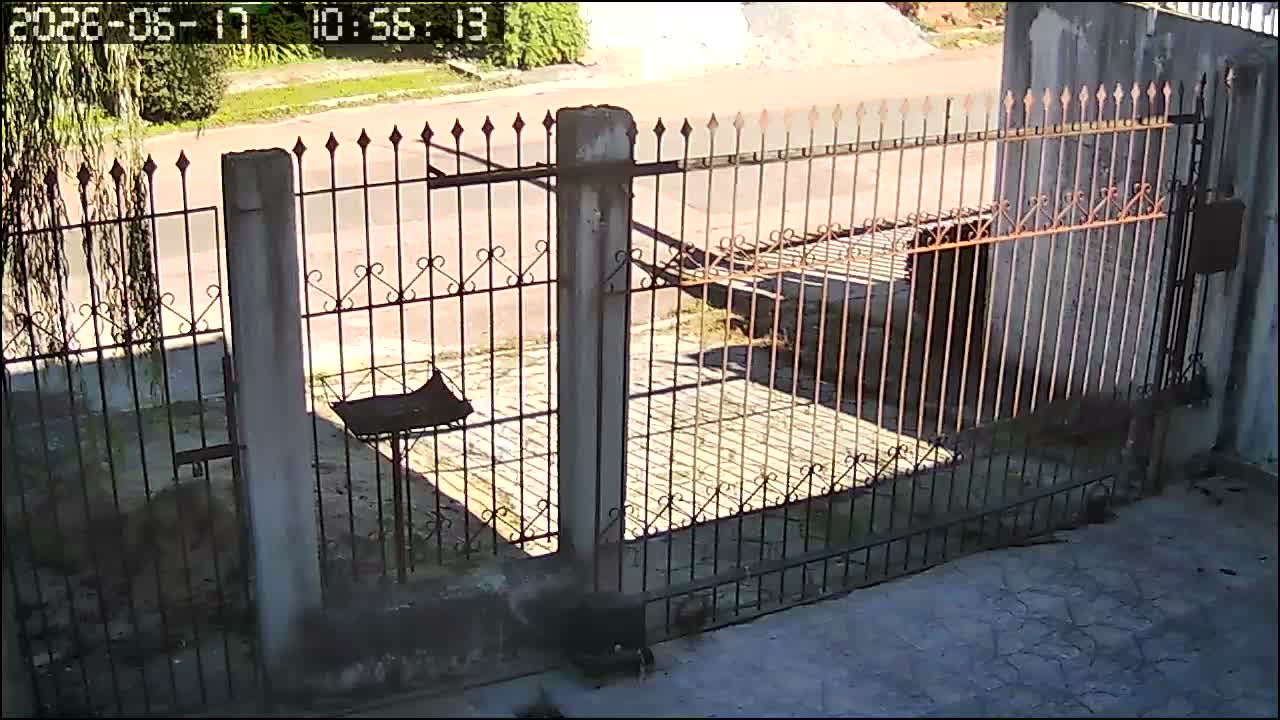
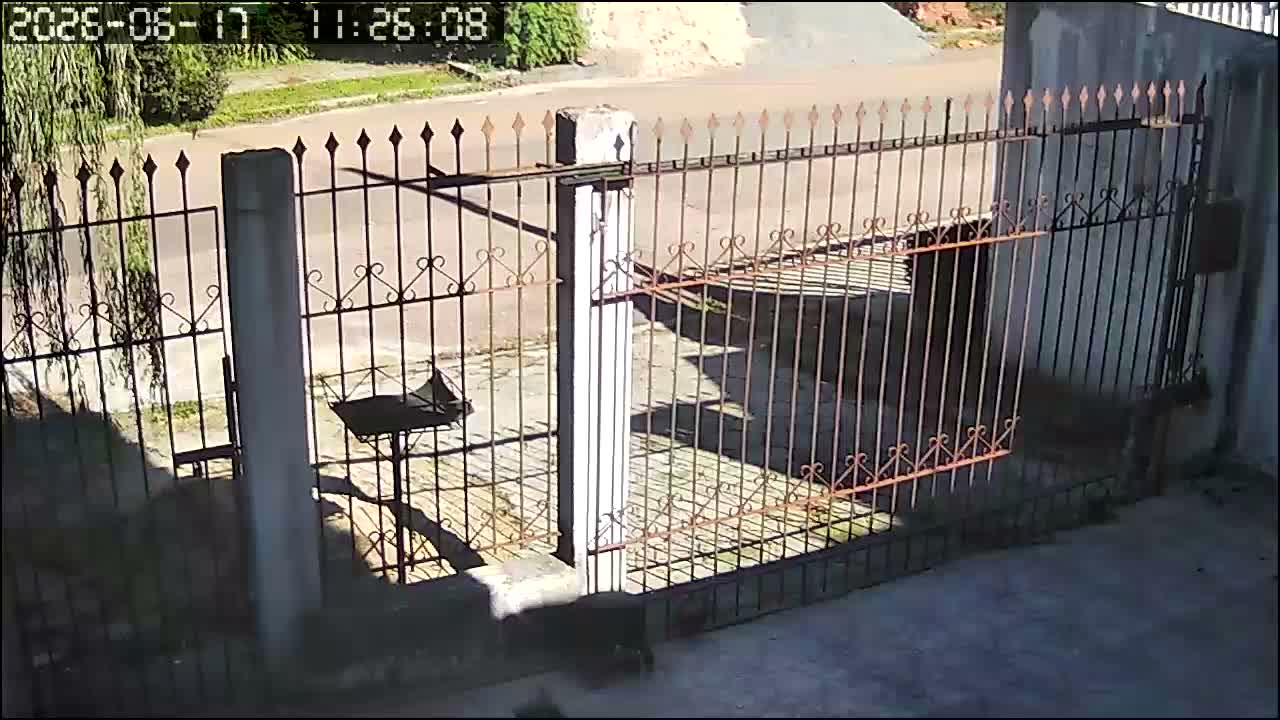
Adiciona captura manual da camera no painel1

diff --git a/app/api/capturar-camera/route.ts b/app/api/capturar-camera/route.ts
@@ -1,0 +1,37 @@
+import { exec } from "child_process";
+import { existsSync } from "fs";
+import { NextResponse } from "next/server";
+
+export async function GET() {
+  return new Promise((resolve) => {
+    const caminhoImagem = "public/camera-qr1.jpg";
+
+    const comando =
+      'ffmpeg -y -i "rtsp://admin:teste123@192.168.15.13:554/onvif1" -frames:v 1 public/camera-qr1.jpg';
+
+    exec(comando, () => {
+      if (existsSync(caminhoImagem)) {
+        resolve(
+          NextResponse.json({
+            sucesso: true,
+            mensagem: "Foto capturada com sucesso.",
+            imagem: "/camera-qr1.jpg",
+            atualizadoEm: new Date().toISOString(),
+          })
+        );
+
+        return;
+      }
+
+      resolve(
+        NextResponse.json(
+          {
+            sucesso: false,
+            erro: "A imagem não foi criada.",
+          },
+          { status: 500 }
+        )
+      );
+    });
+  });
+}

diff --git a/app/painel1/page.tsx b/app/painel1/page.tsx
@@ -15,6 +15,8 @@ export default function Painel() {
   const [contadorHistorico, setContadorHistorico] = useState(0);
   const [contadorRecebidas, setContadorRecebidas] = useState(0);
 const [online, setOnline] = useState(true);
+const [fotoCameraAtualizadaEm, setFotoCameraAtualizadaEm] = useState(Date.now());
+const [capturandoCamera, setCapturandoCamera] = useState(false);
   const audioRef = useRef<HTMLAudioElement | null>(null);
   const intervaloSomRef = useRef<NodeJS.Timeout | null>(null);
 
@@ -293,11 +295,12 @@ async function acionarPortao() {
   </p>
 
   <img
-    src="/camera-qr1.jpg"
-    alt="Foto da câmera do portão"
-    className="w-full rounded-xl mt-3 border border-slate-700"
-  />
+  src={`/camera-qr1.jpg?t=${fotoCameraAtualizadaEm}`}
+  alt="Câmera do portão"
+  className="w-full rounded-lg border border-slate-600 mt-2"
+/>
 
+  
   <p className="text-slate-400 text-xs mt-2">
     Imagem capturada pelo RTSP da câmera.
   </p>
@@ -309,6 +312,23 @@ async function acionarPortao() {
     }
     className="w-full mt-3 bg-purple-600 hover:bg-purple-500 text-white font-bold py-2 rounded-xl"
   >
+    <button
+  onClick={async () => {
+    setCapturandoCamera(true);
+
+    try {
+      await fetch("/api/capturar-camera");
+      setFotoCameraAtualizadaEm(Date.now());
+    } catch (erro) {
+      alert("Erro ao atualizar foto da câmera.");
+    }
+
+    setCapturandoCamera(false);
+  }}
+  className="w-full mt-3 bg-green-600 hover:bg-green-500 text-white font-bold py-2 rounded-xl"
+>
+  {capturandoCamera ? "📸 Atualizando..." : "📸 Atualizar foto da câmera"}
+</button>
     📹 Abrir câmera no VLC
   </button>
 </div>